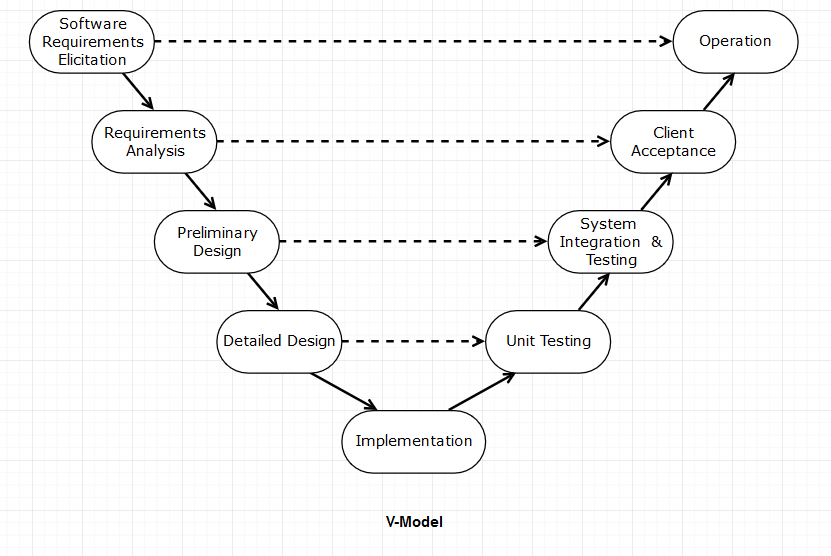
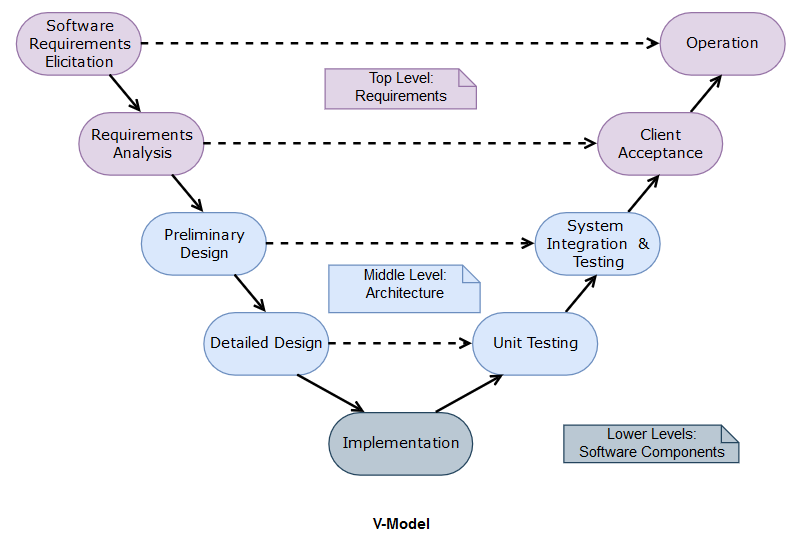
updated V-Model UML digram

diff --git a/notes.md b/notes.md
@@ -382,13 +382,14 @@
 
 - More complex variation of the **Waterfall** Process
 
-- Goal: Depict the Abstraction
+- Goal: Depict the level of abstraction for each activity
     - Higher levels deal with requirements
     - Middle levels deal with architecture (//TODO explain)
     - Low levels deal with details of software components
 
 #### V-Model UML Diagram
-- (layout has no meaning in UML, but is shown to demonstrate link between design and implementation)
+- (layout has no meaning in UML, but is shown to demonstrate link between similar activities at the same abstraction level)
+- //TODO someone confirm if I've colour coded the diagram correctly...
 ![V-Model UML Diagram](figs/v-model-uml-dia.png)
 
 ### Spiral
